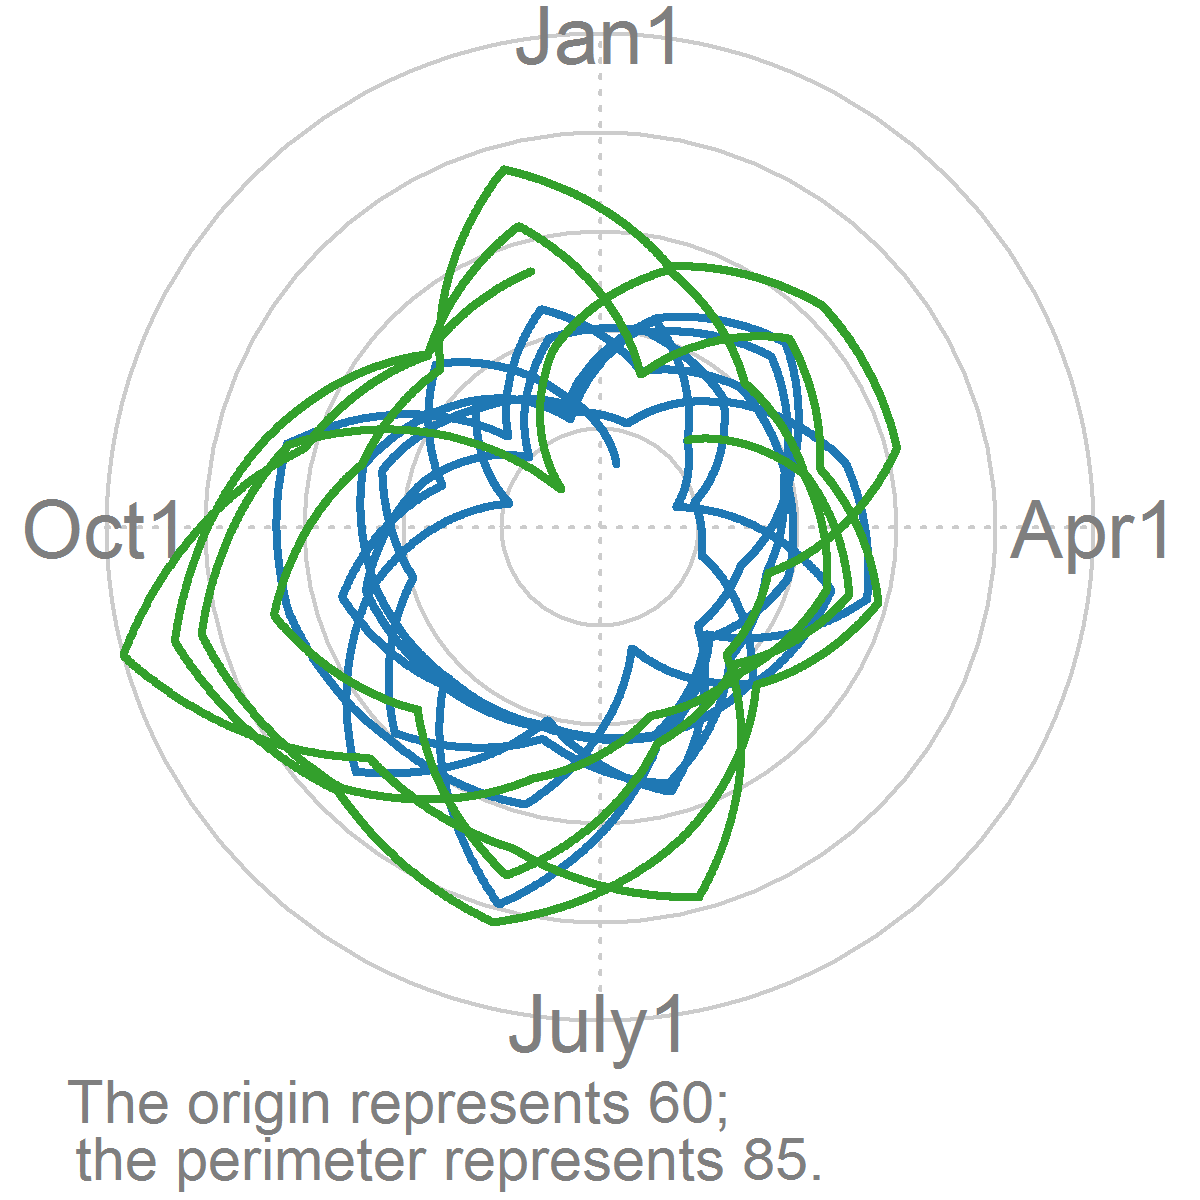
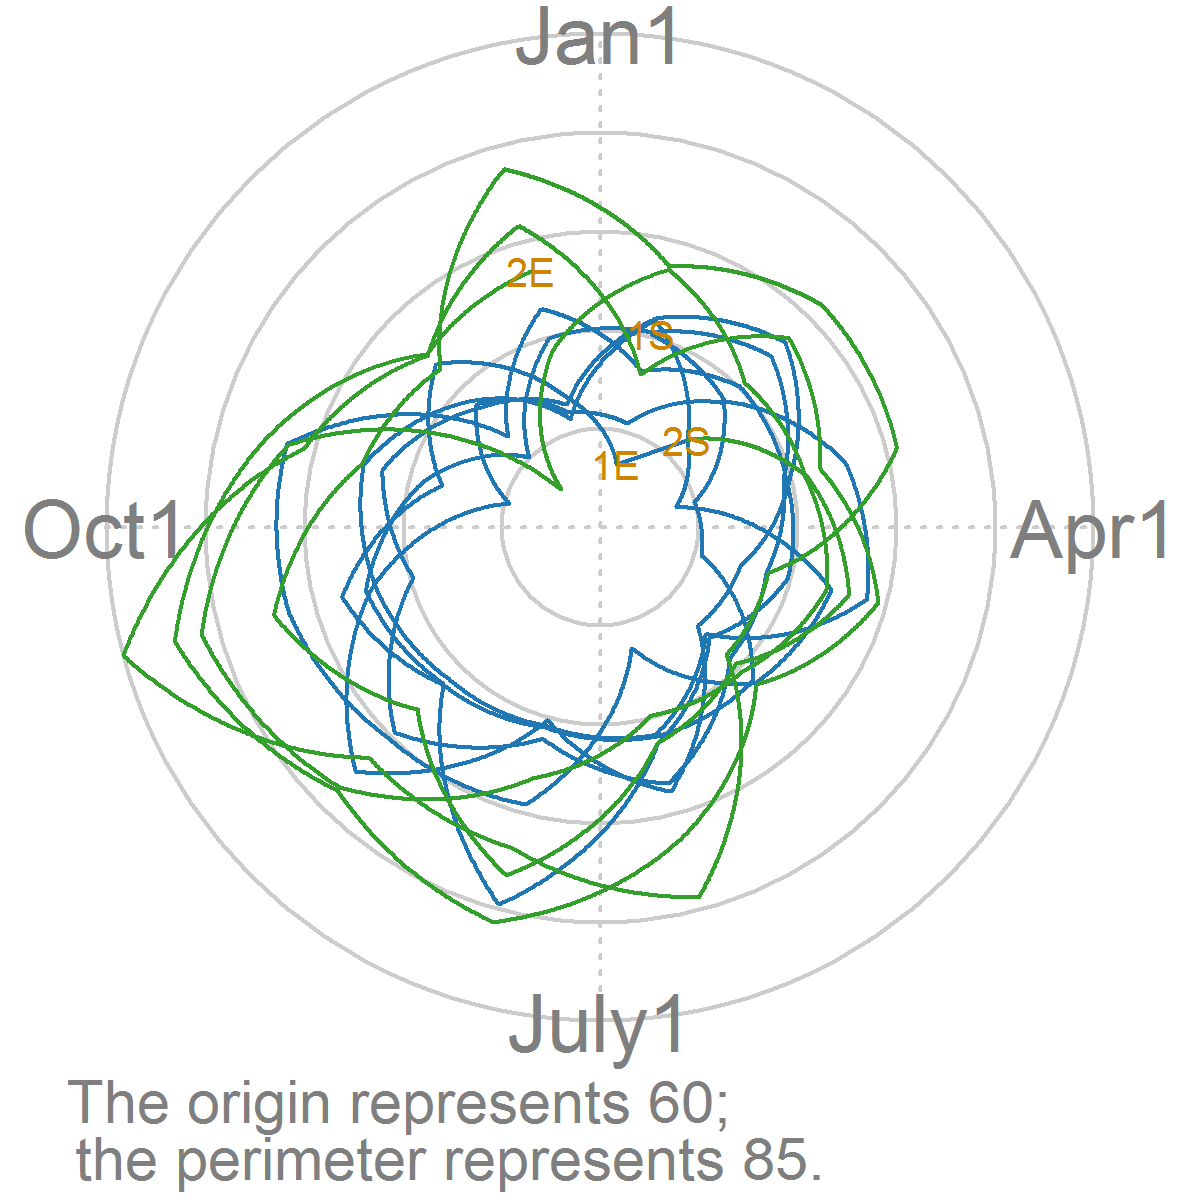
Stages are connected in polar

diff --git a/README.md b/README.md
@@ -10,8 +10,7 @@ Applications to Fertility Rates and the Oklahoma City Bombing.
 > Keywords:  time series, interrupted time series design, group differences, graphical analysis, circular data, H-spread
 
 ## Reproducible Research
-When the package is installed on your local pachine, the `Reproduce.R` script starts with our initial datasets (ie, the vital statistics birth counts and the US Census population estimates) to create the intermediate datasets and resulting graphs and analysis.
-https://github.com/wibeasley/Wats/blob/master/UtilityScripts/Reproduce.R
+When the Wats package is installed on your local machine, the [`Reproduce.R`](https://github.com/wibeasley/Wats/blob/master/UtilityScripts/Reproduce.R) script starts with our initial datasets (ie, the vital statistics birth counts and the US Census population estimates) to create the derivative datasets and resulting graphs and analysis.
 
 ## Nonstandard Directories
 The following directories are not part of the standard R package:
